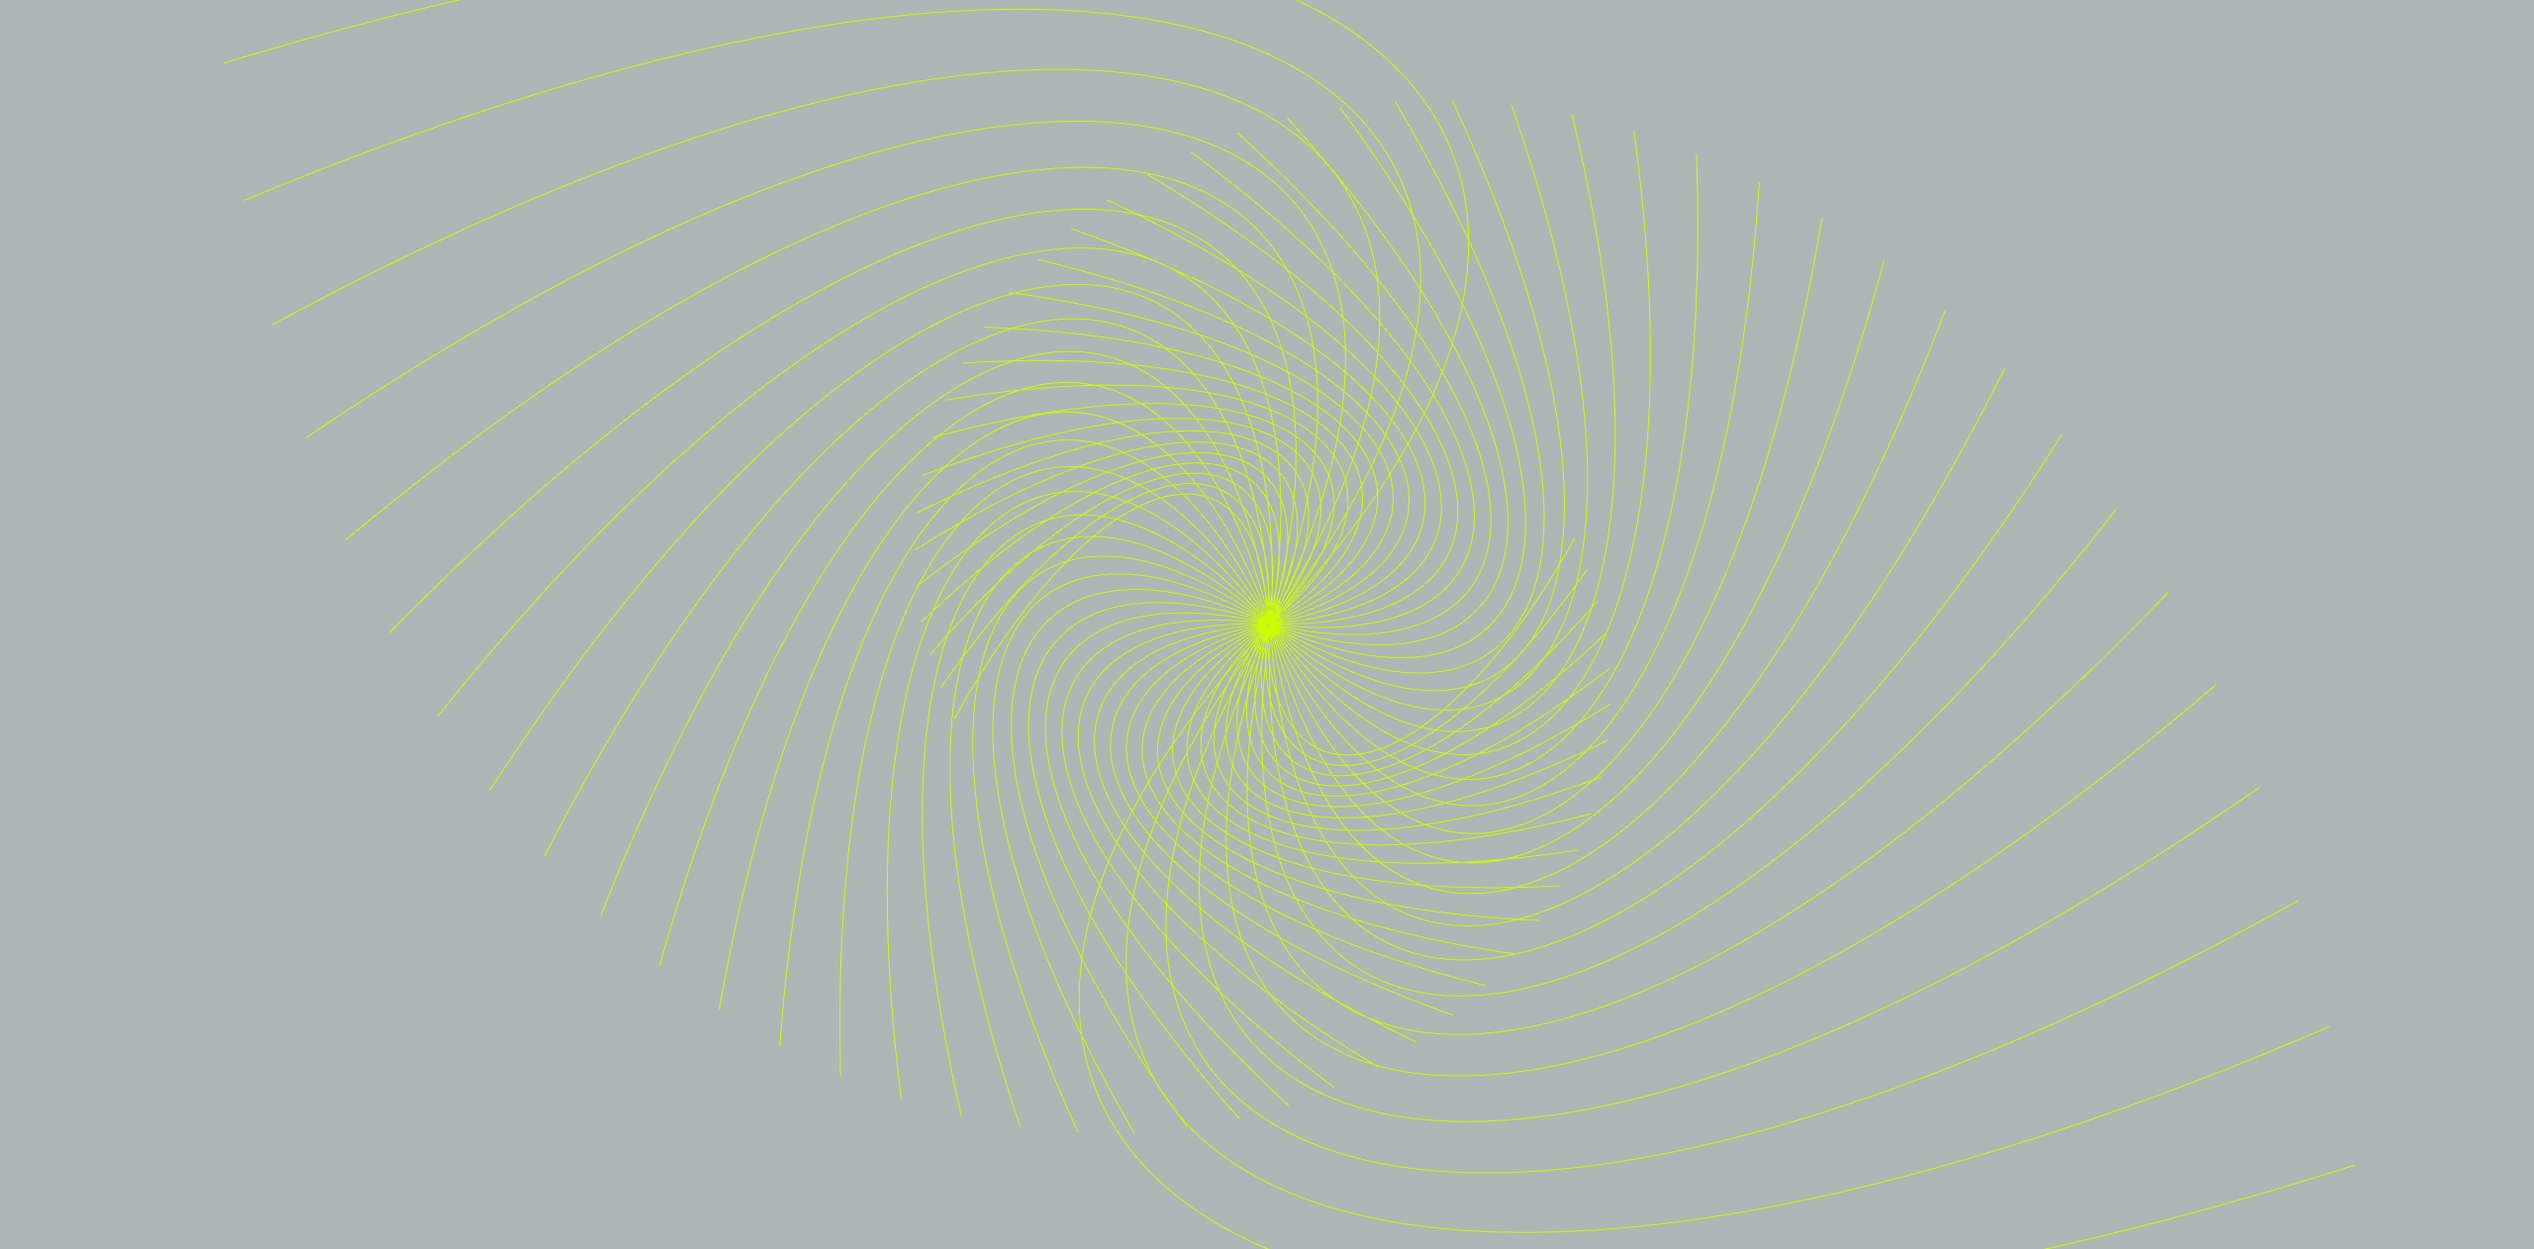
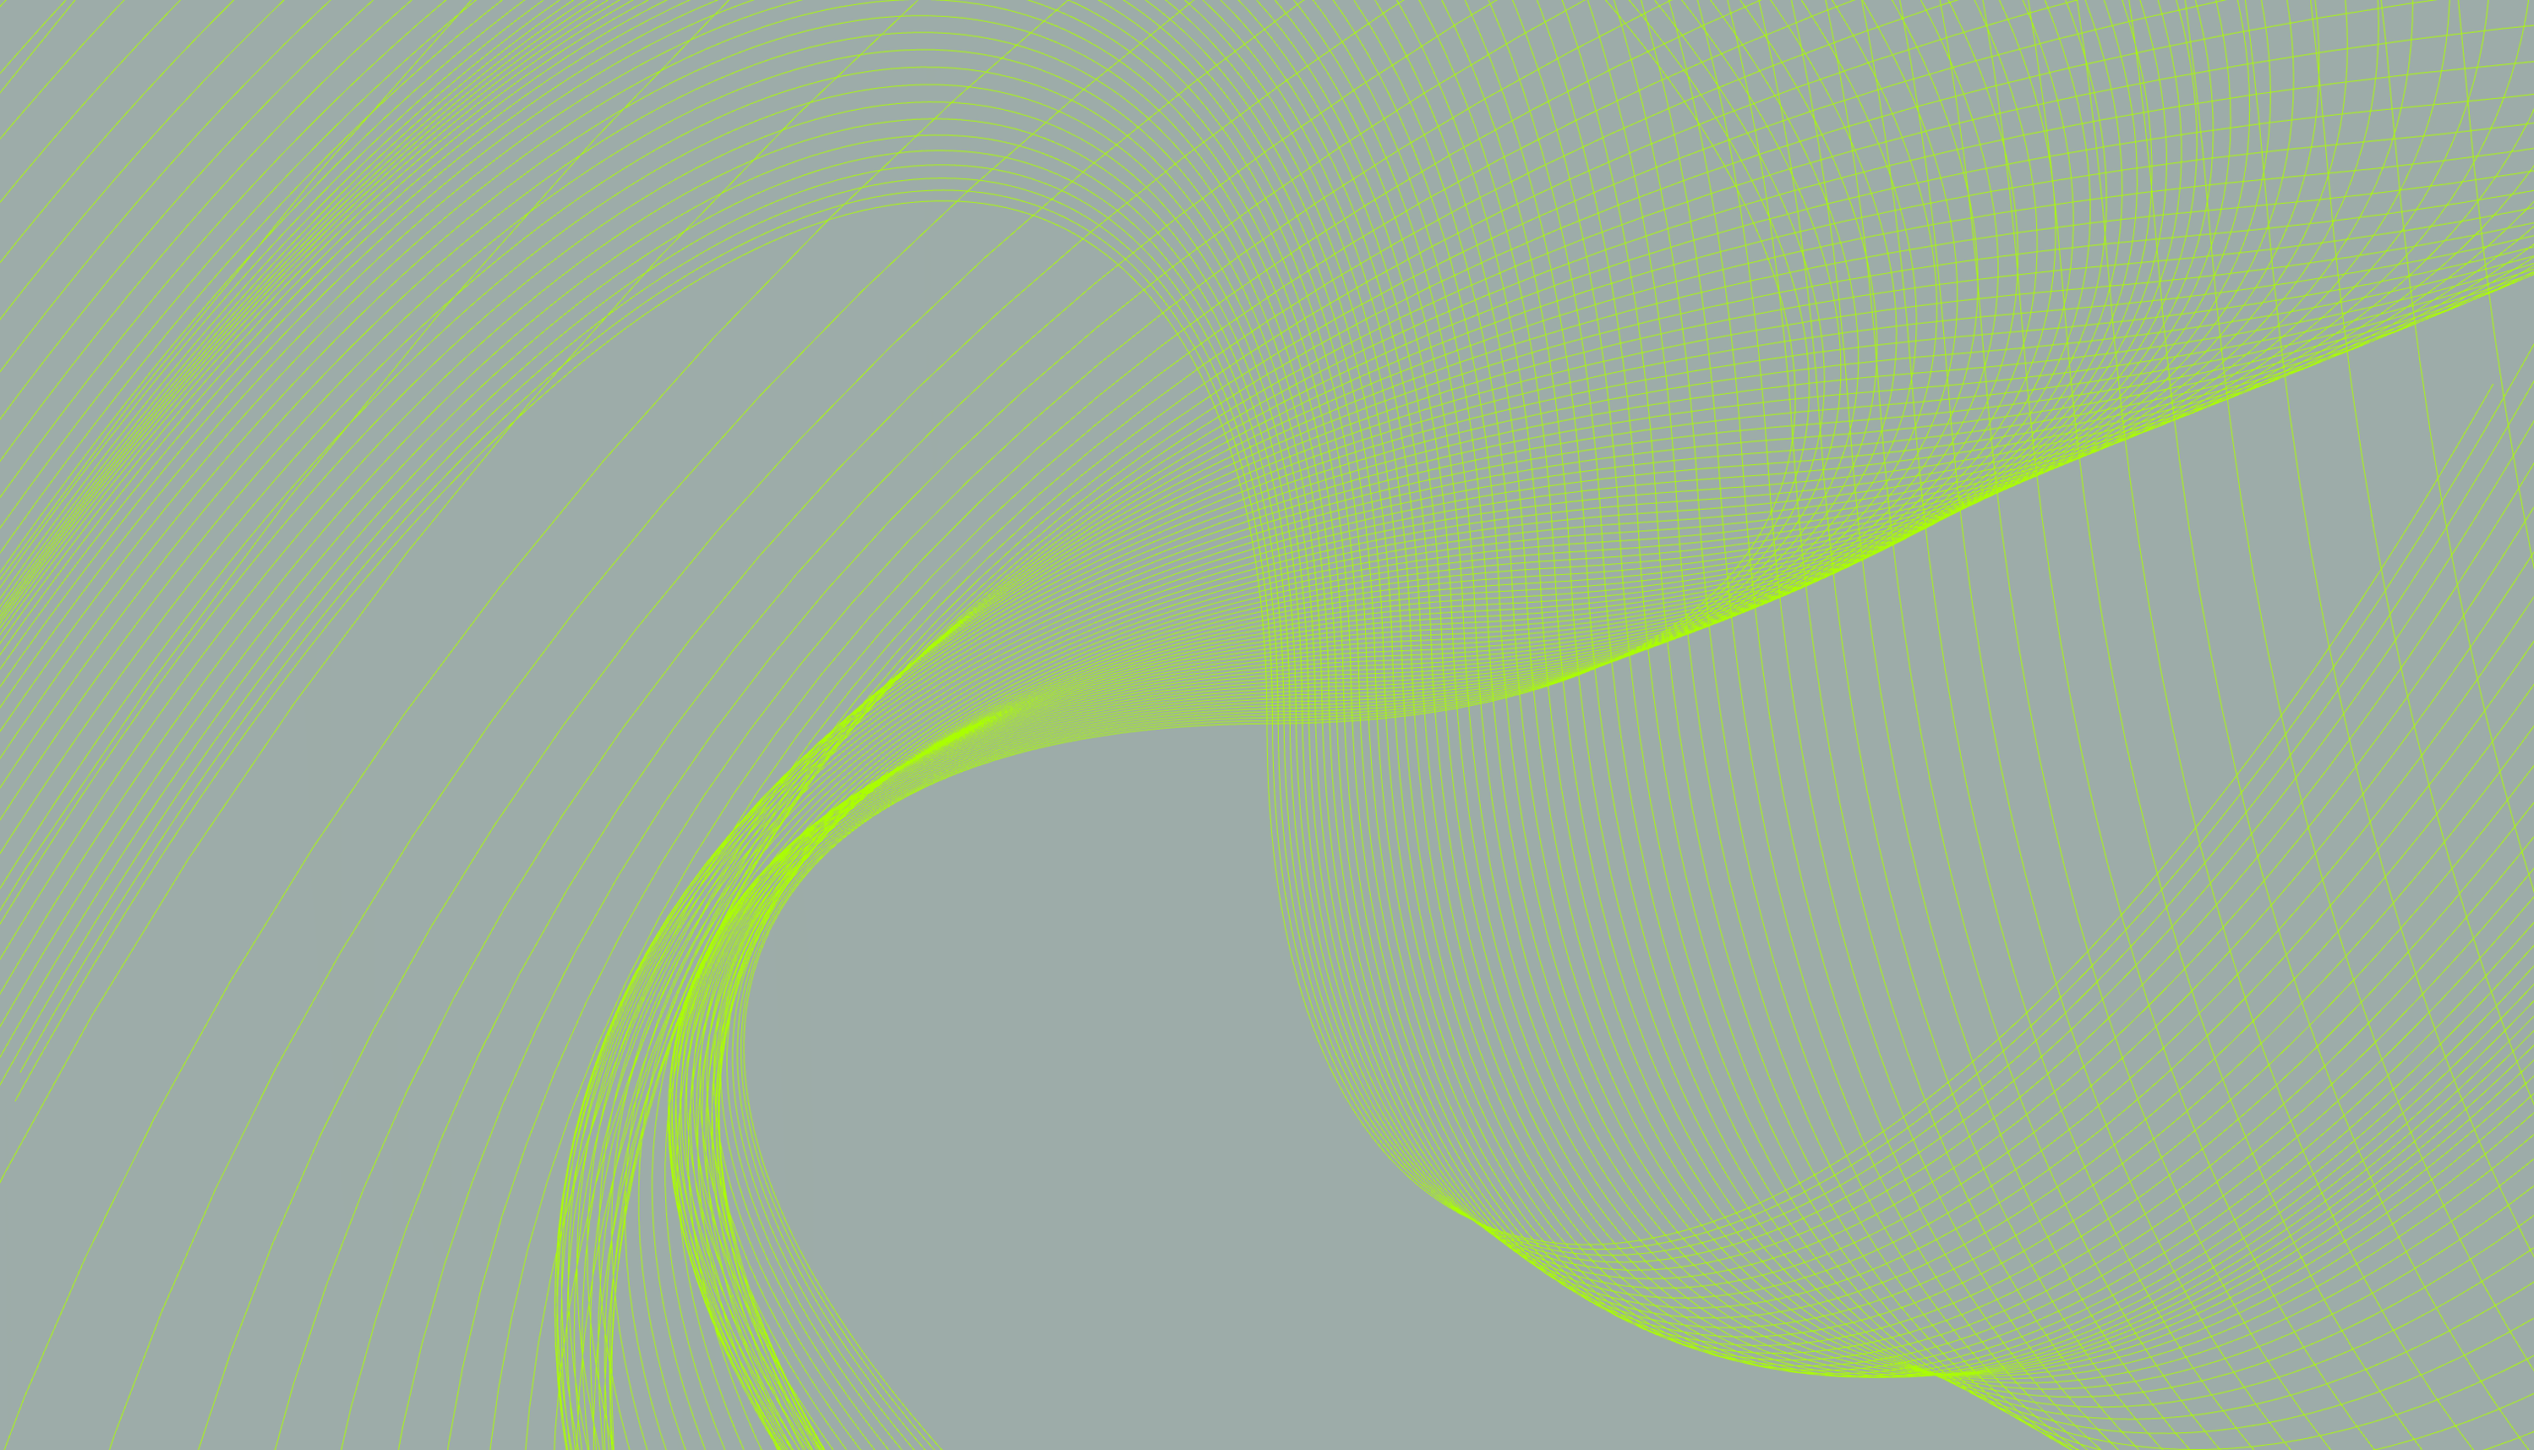
Hero: fond décalé + overlay blanc + titre 34px noir 900 + sous-titres bold

Changed region(s): [[0.0, 0.0, 1.0, 1.0], [0.75, 0.5563, 0.7812, 0.5872], [0.0, 0.0309, 0.0312, 0.0618]]

diff --git a/src/pages/Home.css b/src/pages/Home.css
@@ -2,9 +2,11 @@
 
 /* Bloc 1 — Hero */
 .home-hero {
-  background-image: url('../fond_hero.png');
+  background-image:
+    linear-gradient(rgba(255, 255, 255, 0.35), rgba(255, 255, 255, 0.35)),
+    url('../fond_hero.png');
   background-size: cover;
-  background-position: center;
+  background-position: center 25%;
   background-repeat: no-repeat;
   padding: 100px 50px 80px 50px;
   text-align: center;
@@ -12,8 +14,8 @@
 
 .home-hero h1 {
   font-size: 34px;
-  font-weight: 800;
-  color: #111;
+  font-weight: 900;
+  color: #000;
   max-width: 1400px;
   margin: 0 auto 24px auto;
   line-height: 1.25;
@@ -21,18 +23,16 @@
 }
 
 .home-hero h1 .hl {
-  background: #ABFF00;
-  color: #111;
-  font-weight: 800;
-  padding: 2px 8px;
-  border-radius: 4px;
-  box-decoration-break: clone;
-  -webkit-box-decoration-break: clone;
+  background: transparent;
+  color: inherit;
+  font-weight: inherit;
+  padding: 0;
 }
 
 .home-hero p {
   font-size: 19px;
-  color: #111;
+  font-weight: 700;
+  color: #000;
   max-width: 680px;
   margin: 0 auto 40px auto;
   line-height: 1.6;
@@ -404,23 +404,30 @@
   line-height: 1.7;
 }
 
-.home-hero-video {
-  max-width: 900px;
-  margin: 0 auto 36px auto;
+/* Démo dédiée */
+.home-demo {
+  background: #fff;
+  padding: 80px 50px;
   text-align: center;
 }
 
-.home-hero-video h3 {
-  font-size: 18px;
-  font-weight: 700;
+.home-demo-title {
+  font-size: 30px;
+  font-weight: 800;
   color: #111;
-  background: #ABFF00;
-  padding: 12px 24px;
-  border-radius: 12px;
-  margin: 0 auto 20px auto;
-  text-align: center;
-  display: inline-block;
-  box-shadow: 0 2px 10px rgba(0, 0, 0, 0.08);
+  margin: 0 auto 32px auto;
+  max-width: 900px;
+  line-height: 1.3;
+}
+
+.home-demo-video {
+  max-width: 900px;
+  margin: 0 auto;
+}
+
+@media (max-width: 900px) {
+  .home-demo { padding: 60px 24px; }
+  .home-demo-title { font-size: 24px; }
 }
 
 .product-screenshot {

diff --git a/src/pages/APropos.css b/src/pages/APropos.css
@@ -3,26 +3,29 @@
 
 /* Hero */
 .apropos-hero {
-  background-image: url('../fond_hero.png');
+  background-image:
+    linear-gradient(rgba(255, 255, 255, 0.35), rgba(255, 255, 255, 0.35)),
+    url('../fond_hero.png');
   background-size: cover;
-  background-position: center;
+  background-position: center 25%;
   padding: 100px 50px 80px 50px;
   text-align: center;
 }
 
 .apropos-hero h1 {
-  font-size: 48px;
-  font-weight: 800;
-  color: #111;
+  font-size: 34px;
+  font-weight: 900;
+  color: #000;
   max-width: 760px;
   margin: 0 auto 24px auto;
-  line-height: 1.15;
-  letter-spacing: -0.5px;
+  line-height: 1.25;
+  letter-spacing: -0.3px;
 }
 
 .apropos-hero p {
   font-size: 19px;
-  color: #111;
+  font-weight: 700;
+  color: #000;
   max-width: 620px;
   margin: 0 auto;
   line-height: 1.6;
@@ -30,17 +33,17 @@
 
 .apropos-hero-mission {
   font-size: 24px !important;
-  font-weight: 600;
+  font-weight: 700 !important;
+  color: #000;
   max-width: 820px !important;
   line-height: 1.5 !important;
 }
 
 .apropos-hero-mission .hl {
-  background: #ABFF00;
-  color: #111;
-  font-weight: 800;
-  padding: 2px 8px;
-  border-radius: 4px;
+  background: transparent;
+  color: inherit;
+  font-weight: inherit;
+  padding: 0;
 }
 
 .apropos-story-toggle {

diff --git a/src/pages/HomePage.js b/src/pages/HomePage.js
@@ -53,8 +53,16 @@ const HomePage = () => {
           <strong>{t('home.hero.subtitle_b2')}</strong>
           {t('home.hero.subtitle_end')}
         </p>
-        <div className="home-hero-video">
-          <h3>{t('home.product.video_pill')}</h3>
+        <div className="hero-ctas">
+          <Link to="/contact" className="btn-primary">{t('home.hero.cta_demo')}</Link>
+          <Link to="/plateforme" className="btn-secondary">{t('home.hero.cta_platform')}</Link>
+        </div>
+      </section>
+
+      {/* Démo dédiée */}
+      <section className="home-demo" data-aos="fade-up">
+        <h2 className="home-demo-title">{t('home.product.video_pill')}</h2>
+        <div className="home-demo-video">
           <video
             key={plateformeVideo}
             controls
@@ -65,10 +73,6 @@ const HomePage = () => {
             <source src={`${plateformeVideo}#t=4`} type="video/mp4" />
             {t('home.product.video_fallback')}
           </video>
-        </div>
-        <div className="hero-ctas">
-          <Link to="/contact" className="btn-primary">{t('home.hero.cta_demo')}</Link>
-          <Link to="/plateforme" className="btn-secondary">{t('home.hero.cta_platform')}</Link>
         </div>
       </section>
 

diff --git a/src/pages/Plateforme.css b/src/pages/Plateforme.css
@@ -5,36 +5,36 @@
 
 /* Hero */
 .plat-hero {
-  background-image: url('../fond_hero.png');
+  background-image:
+    linear-gradient(rgba(255, 255, 255, 0.35), rgba(255, 255, 255, 0.35)),
+    url('../fond_hero.png');
   background-size: cover;
-  background-position: center;
+  background-position: center 25%;
   padding: 100px 50px 80px 50px;
   text-align: center;
 }
 
 .plat-hero h1 {
-  font-size: 40px;
-  font-weight: 800;
-  color: #111;
+  font-size: 34px;
+  font-weight: 900;
+  color: #000;
   max-width: 1500px;
   margin: 0 auto 24px auto;
-  line-height: 1.2;
-  letter-spacing: -0.4px;
+  line-height: 1.25;
+  letter-spacing: -0.3px;
 }
 
 .plat-hero h1 .hl {
-  background: #ABFF00;
-  color: #111;
-  font-weight: 800;
-  padding: 2px 8px;
-  border-radius: 4px;
-  box-decoration-break: clone;
-  -webkit-box-decoration-break: clone;
+  background: transparent;
+  color: inherit;
+  font-weight: inherit;
+  padding: 0;
 }
 
 .plat-hero p {
   font-size: 19px;
-  color: #111;
+  font-weight: 700;
+  color: #000;
   max-width: 900px;
   margin: 0 auto 36px auto;
   line-height: 1.6;

diff --git a/src/pages/Carrieres.css b/src/pages/Carrieres.css
@@ -3,26 +3,29 @@
 
 /* Hero */
 .carrieres-hero {
-  background-image: url('../fond_hero.png');
+  background-image:
+    linear-gradient(rgba(255, 255, 255, 0.35), rgba(255, 255, 255, 0.35)),
+    url('../fond_hero.png');
   background-size: cover;
-  background-position: center;
+  background-position: center 25%;
   padding: 100px 50px 80px 50px;
   text-align: center;
 }
 
 .carrieres-hero h1 {
-  font-size: 42px;
-  font-weight: 800;
-  color: #111;
+  font-size: 34px;
+  font-weight: 900;
+  color: #000;
   max-width: 820px;
   margin: 0 auto 24px auto;
-  line-height: 1.15;
-  letter-spacing: -0.5px;
+  line-height: 1.25;
+  letter-spacing: -0.3px;
 }
 
 .carrieres-hero p {
   font-size: 18px;
-  color: #111;
+  font-weight: 700;
+  color: #000;
   max-width: 640px;
   margin: 0 auto 36px auto;
   line-height: 1.6;

diff --git a/src/pages/Ressources.css b/src/pages/Ressources.css
@@ -3,26 +3,29 @@
 
 /* Hero */
 .ressources-hero {
-  background-image: url('../fond_hero.png');
+  background-image:
+    linear-gradient(rgba(255, 255, 255, 0.35), rgba(255, 255, 255, 0.35)),
+    url('../fond_hero.png');
   background-size: cover;
-  background-position: center;
+  background-position: center 25%;
   padding: 100px 50px 80px 50px;
   text-align: center;
 }
 
 .ressources-hero h1 {
-  font-size: 46px;
-  font-weight: 800;
-  color: #111;
+  font-size: 34px;
+  font-weight: 900;
+  color: #000;
   max-width: 720px;
   margin: 0 auto 24px auto;
-  line-height: 1.15;
+  line-height: 1.25;
   letter-spacing: -0.5px;
 }
 
 .ressources-hero p {
   font-size: 18px;
-  color: #111;
+  font-weight: 700;
+  color: #000;
   max-width: 620px;
   margin: 0 auto;
   line-height: 1.6;

diff --git a/src/pages/Contact.css b/src/pages/Contact.css
@@ -2,7 +2,9 @@
 .contact-page { background: #E6E6E6; }
 
 .contact-hero {
-  background-image: url('../fond_newsletter.png');
+  background-image:
+    linear-gradient(rgba(255, 255, 255, 0.35), rgba(255, 255, 255, 0.35)),
+    url('../fond_newsletter.png');
   background-size: cover;
   background-position: center;
   padding: 100px 50px 80px 50px;
@@ -10,17 +12,19 @@
 }
 
 .contact-hero h1 {
-  font-size: 42px;
-  font-weight: 800;
-  color: #111;
+  font-size: 34px;
+  font-weight: 900;
+  color: #000;
   max-width: 680px;
   margin: 0 auto 24px auto;
-  line-height: 1.15;
+  line-height: 1.25;
+  letter-spacing: -0.3px;
 }
 
 .contact-hero p {
   font-size: 18px;
-  color: #111;
+  font-weight: 700;
+  color: #000;
   max-width: 580px;
   margin: 0 auto;
   line-height: 1.6;

diff --git a/src/pages/RessourcesClimat.css b/src/pages/RessourcesClimat.css
@@ -3,26 +3,29 @@
 
 /* Hero */
 .rc-hero {
-  background-image: url('../fond_hero.png');
+  background-image:
+    linear-gradient(rgba(255, 255, 255, 0.35), rgba(255, 255, 255, 0.35)),
+    url('../fond_hero.png');
   background-size: cover;
-  background-position: center;
+  background-position: center 25%;
   padding: 100px 50px 80px 50px;
   text-align: center;
 }
 
 .rc-hero h1 {
-  font-size: 42px;
-  font-weight: 800;
-  color: #111;
+  font-size: 34px;
+  font-weight: 900;
+  color: #000;
   max-width: 820px;
   margin: 0 auto 24px auto;
-  line-height: 1.15;
+  line-height: 1.25;
   letter-spacing: -0.5px;
 }
 
 .rc-hero p {
   font-size: 18px;
-  color: #111;
+  font-weight: 700;
+  color: #000;
   max-width: 640px;
   margin: 0 auto 36px auto;
   line-height: 1.6;
